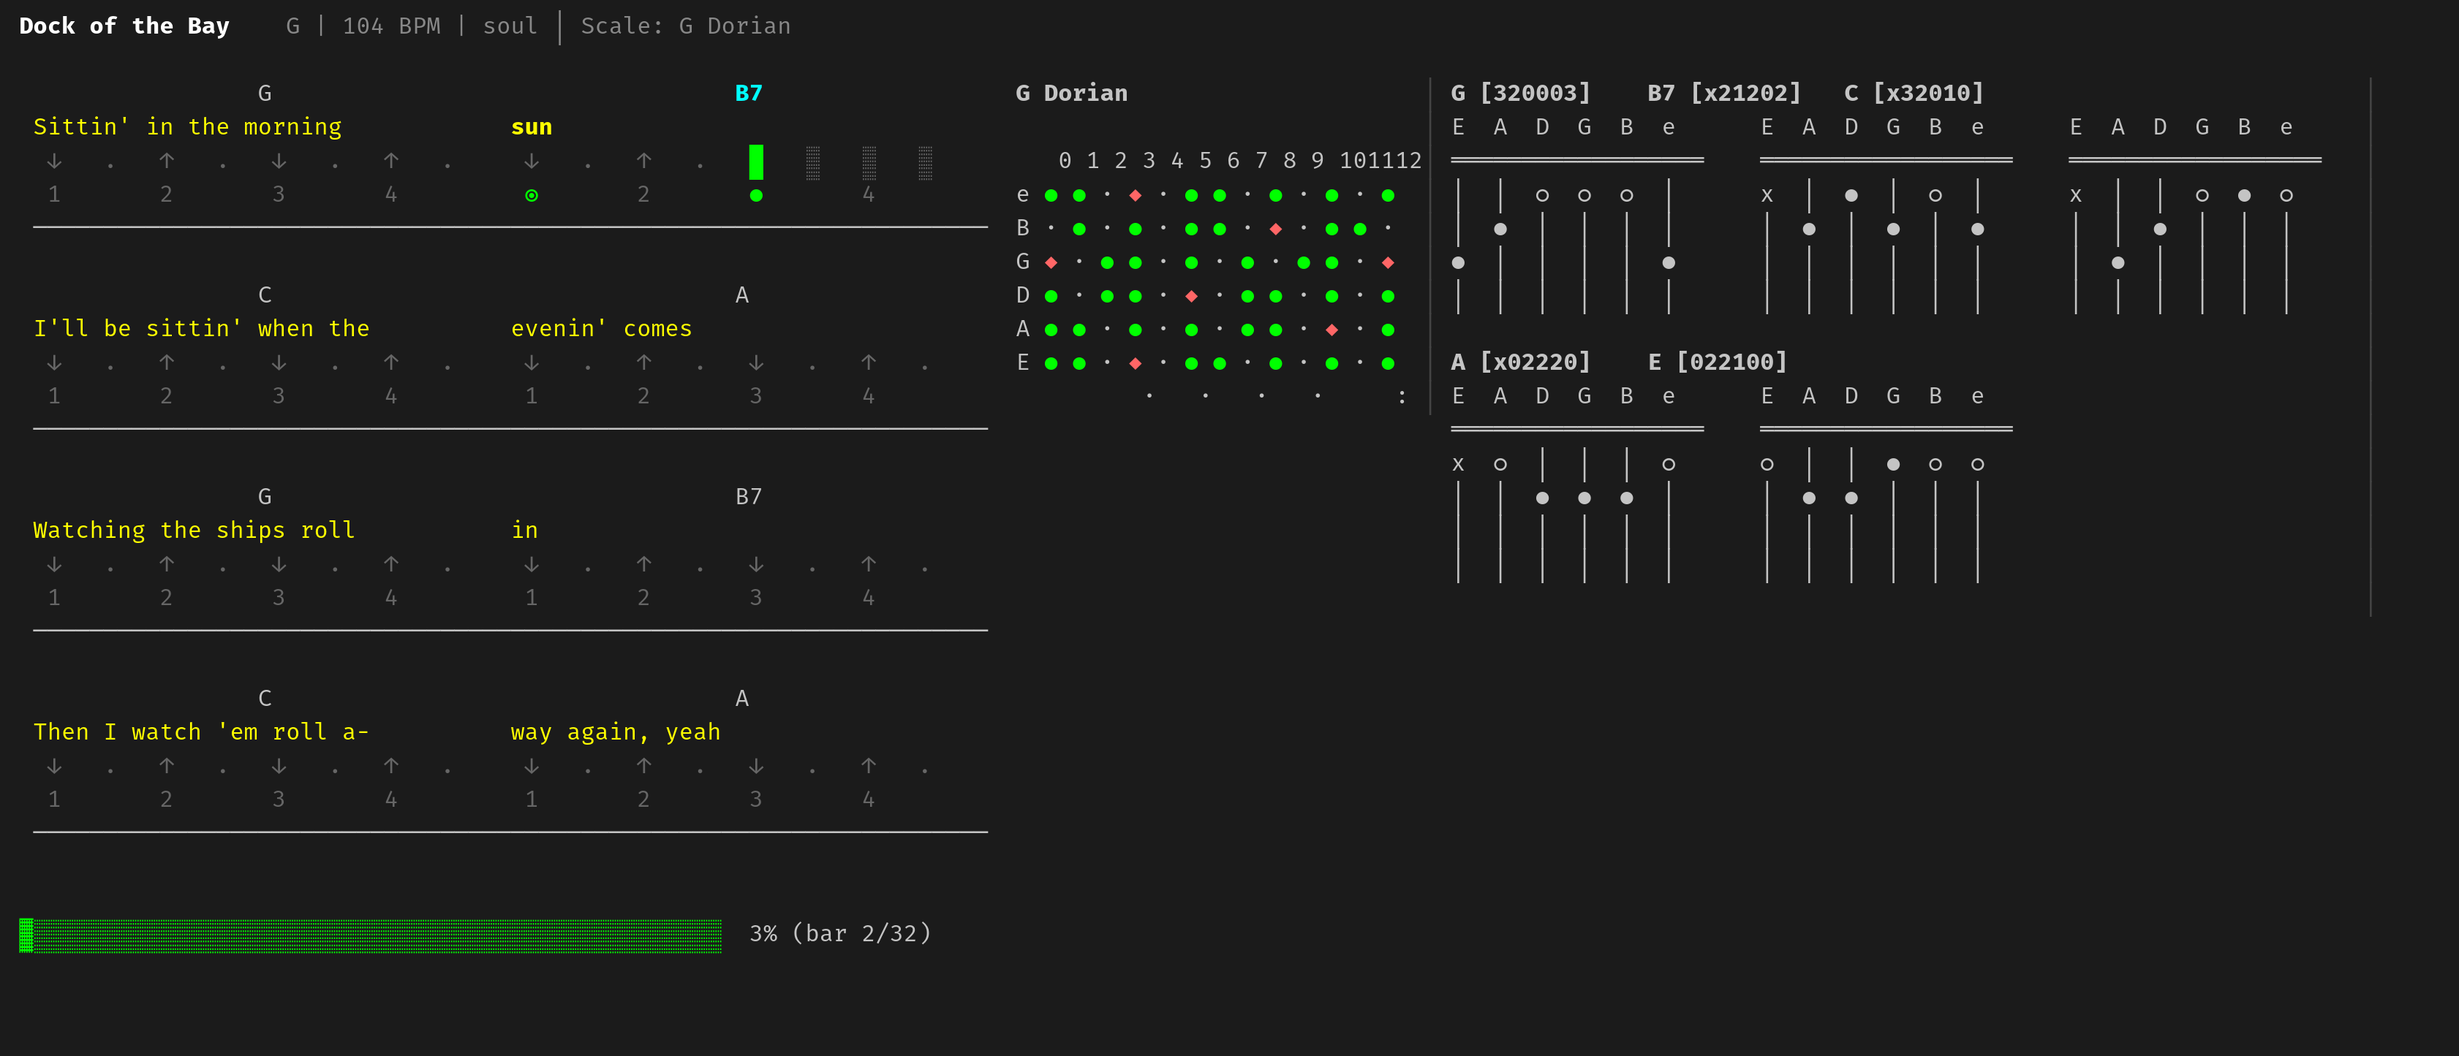
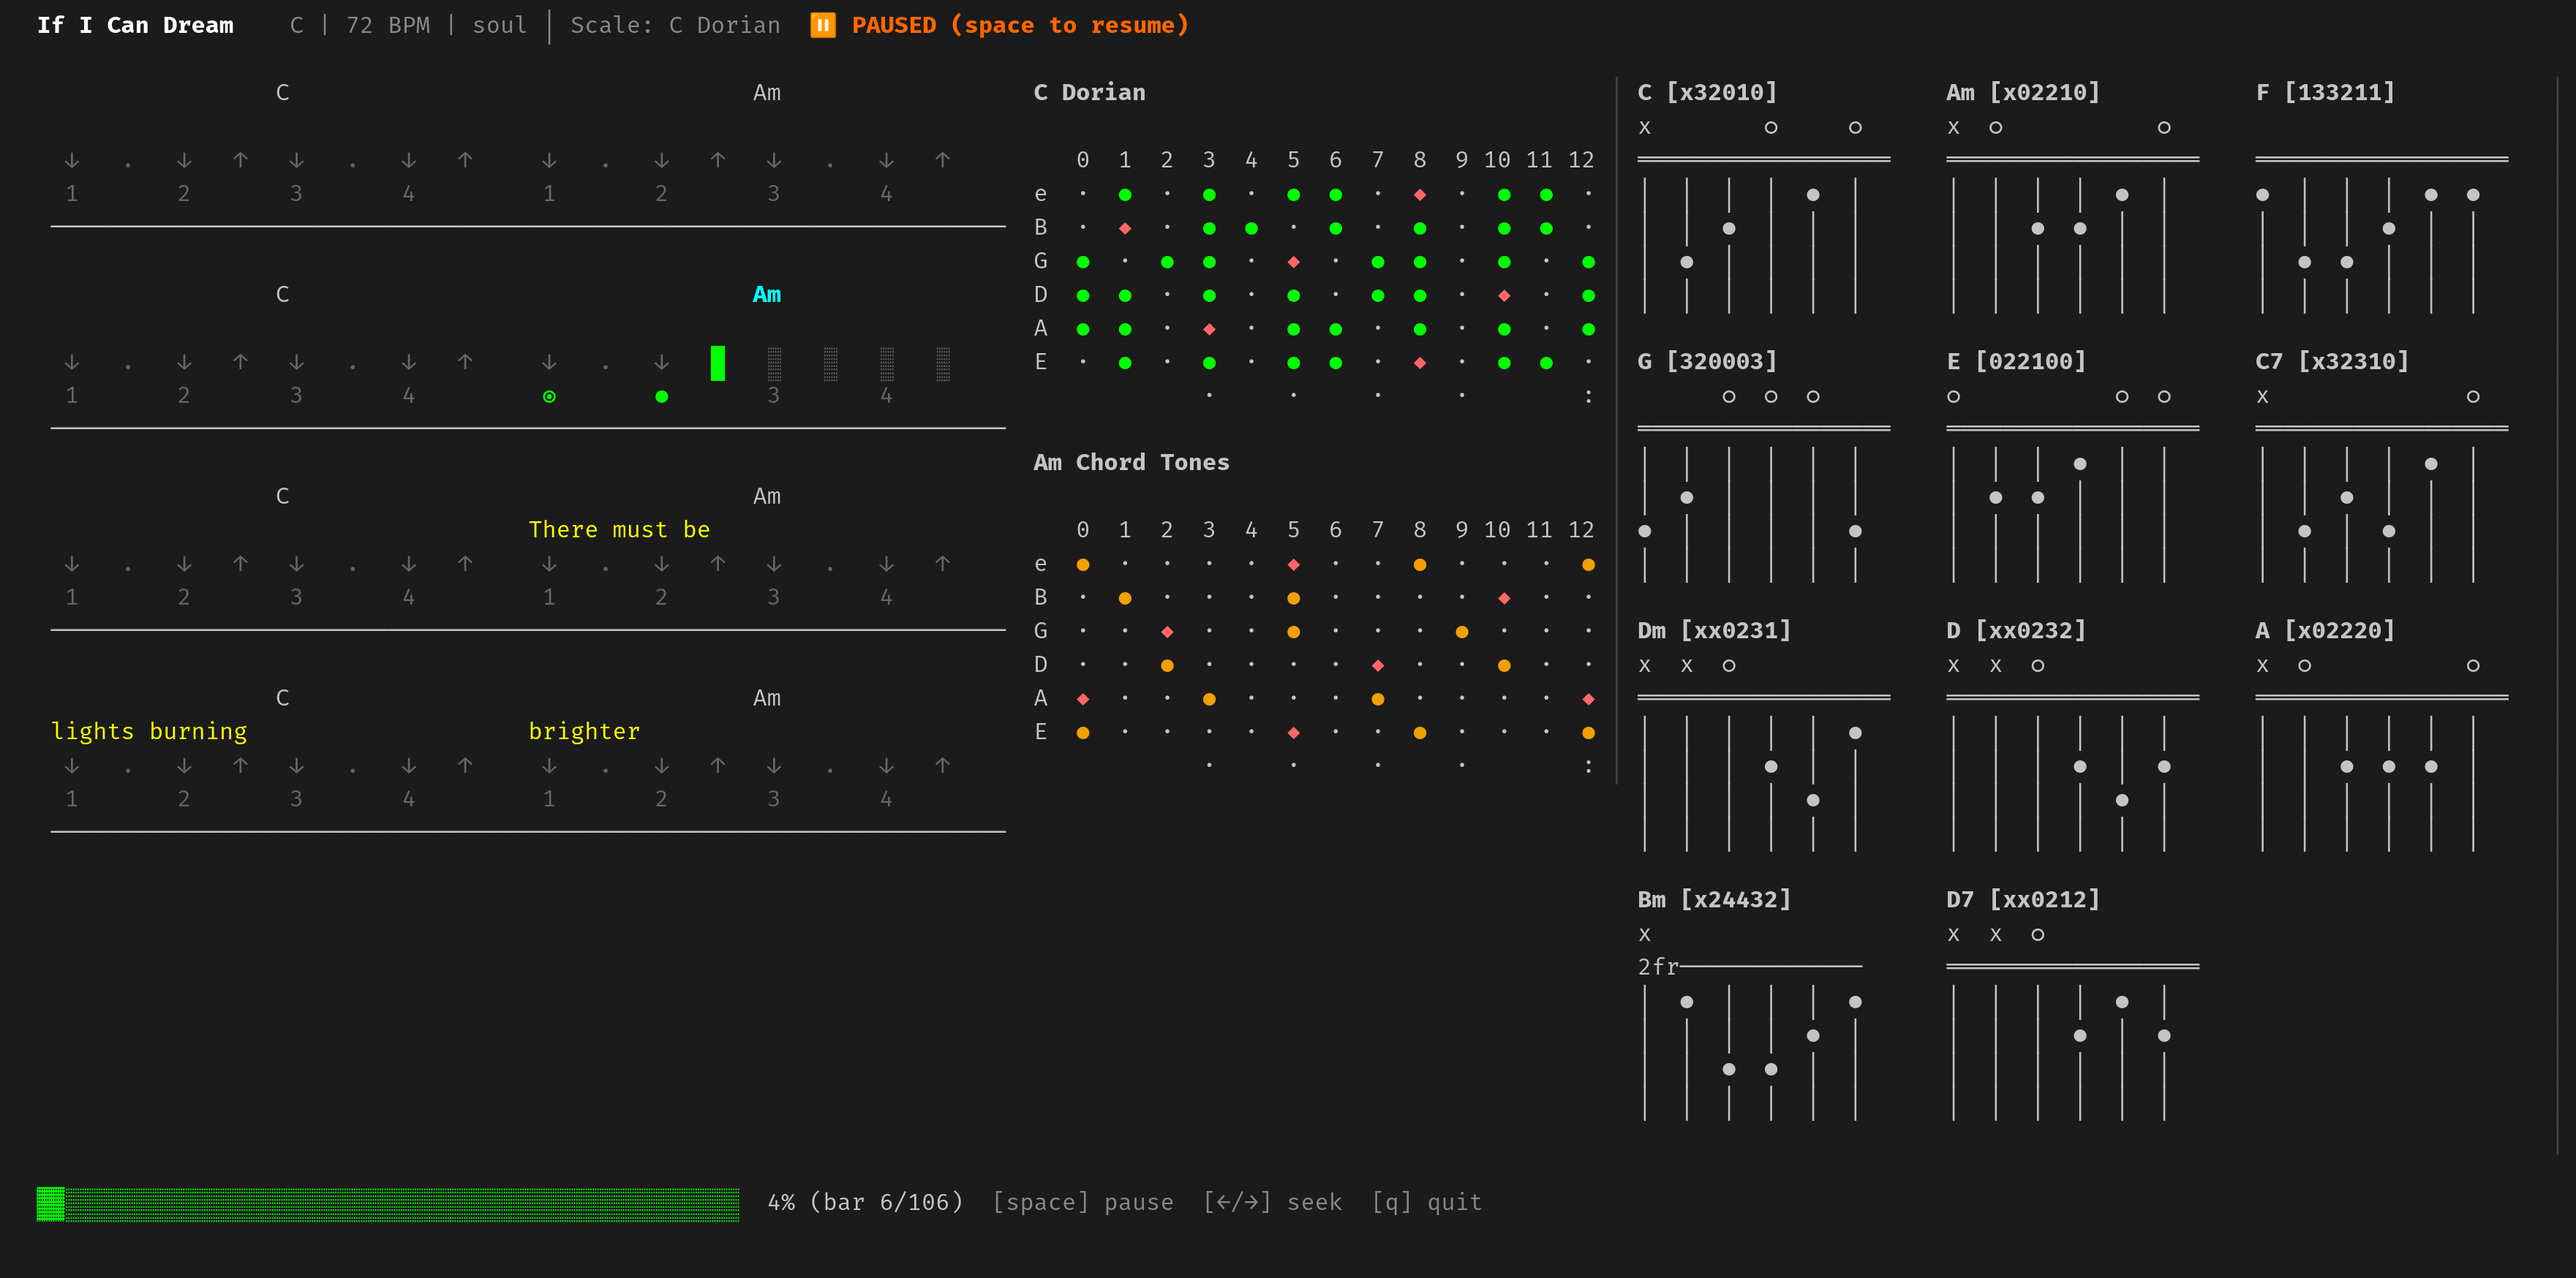
Add chord tones fretboard and fix display alignment issues
New features:
- Chord tones fretboard showing all positions for current chord
- Root notes shown as ◆ (red), other chord tones as ● (orange)
- Updates in real-time as chords change (including mid-bar)

Display fixes:
- Fixed fret number alignment (double digits now properly spaced)
- Fixed chord diagram alignment (ANSI codes no longer affect width)
- Open/muted string indicators now appear above the nut line
- 16th note styles now properly sync strum cursor with beat

🤖 Generated with [Claude Code](https://claude.com/claude-code)

diff --git a/display/tui.go b/display/tui.go
@@ -512,7 +512,7 @@ func (m *TUIModel) renderBeatNumbers16th(isCurrent bool) string {
 	return " " + strings.Join(result, " ")
 }
 
-// renderMiddleColumn renders the scale fretboard
+// renderMiddleColumn renders the scale fretboard and chord tones fretboard
 func (m *TUIModel) renderMiddleColumn() string {
 	if m.fretboard == nil || m.currentScale == nil {
 		return ""
@@ -524,14 +524,10 @@ func (m *TUIModel) renderMiddleColumn() string {
 	lines = append(lines, lipgloss.NewStyle().Bold(true).Render(" "+m.currentScale.Name))
 	lines = append(lines, "")
 
-	// Fret numbers
-	fretLine := "    "
+	// Fret numbers (use 3-char columns for proper alignment with double digits)
+	fretLine := "   "
 	for fret := 0; fret <= 12; fret++ {
-		if fret < 10 {
-			fretLine += fmt.Sprintf("%d ", fret)
-		} else {
-			fretLine += fmt.Sprintf("%d", fret)
-		}
+		fretLine += fmt.Sprintf("%2d ", fret)
 	}
 	lines = append(lines, fretLine)
 
@@ -545,30 +541,137 @@ func (m *TUIModel) renderMiddleColumn() string {
 
 		for fret := 0; fret <= 12; fret++ {
 			if roots[stringIdx][fret] {
-				line += lipgloss.NewStyle().Foreground(rootColor).Render("◆ ")
+				line += lipgloss.NewStyle().Foreground(rootColor).Render(" ◆ ")
 			} else if positions[stringIdx][fret] {
-				line += lipgloss.NewStyle().Foreground(accentColor).Render("● ")
+				line += lipgloss.NewStyle().Foreground(accentColor).Render(" ● ")
 			} else {
-				line += "· "
+				line += " · "
 			}
 		}
 		lines = append(lines, line)
 	}
 
 	// Fret markers
-	markerLine := "    "
+	markerLine := "   "
 	for fret := 0; fret <= 12; fret++ {
 		if fret == 3 || fret == 5 || fret == 7 || fret == 9 {
-			markerLine += "· "
+			markerLine += " · "
 		} else if fret == 12 {
-			markerLine += ": "
+			markerLine += " : "
 		} else {
-			markerLine += "  "
+			markerLine += "   "
 		}
 	}
 	lines = append(lines, markerLine)
 
+	// Add chord tones fretboard
+	chordLines := m.renderChordTonesFretboard()
+	if len(chordLines) > 0 {
+		lines = append(lines, "")
+		lines = append(lines, chordLines...)
+	}
+
 	return strings.Join(lines, "\n")
+}
+
+// renderChordTonesFretboard renders a fretboard showing all positions for current chord tones
+func (m *TUIModel) renderChordTonesFretboard() []string {
+	// Get current chord
+	currentChord := m.getCurrentChordSymbol()
+	if currentChord == "" {
+		return nil
+	}
+
+	var lines []string
+
+	// Chord name header
+	lines = append(lines, lipgloss.NewStyle().Bold(true).Render(" "+currentChord+" Chord Tones"))
+	lines = append(lines, "")
+
+	// Get chord tones (returns slice of MIDI note offsets 0-11)
+	chordTones := theory.GetChordTones(currentChord)
+	if len(chordTones) == 0 {
+		return nil
+	}
+
+	// Create a map for quick lookup
+	toneMap := make(map[int]bool)
+	for _, tone := range chordTones {
+		toneMap[tone] = true
+	}
+
+	// Root note for highlighting
+	rootTone := chordTones[0]
+
+	// Standard tuning: E A D G B E (MIDI notes 40, 45, 50, 55, 59, 64)
+	openStrings := []int{40, 45, 50, 55, 59, 64} // Low E to high E
+
+	// Fret numbers
+	fretLine := "   "
+	for fret := 0; fret <= 12; fret++ {
+		fretLine += fmt.Sprintf("%2d ", fret)
+	}
+	lines = append(lines, fretLine)
+
+	// Strings (high to low for display)
+	stringNames := []string{"e", "B", "G", "D", "A", "E"}
+
+	for idx, name := range stringNames {
+		stringIdx := 5 - idx // Reverse to match display order
+		openNote := openStrings[stringIdx]
+		line := fmt.Sprintf(" %s ", name)
+
+		for fret := 0; fret <= 12; fret++ {
+			noteAtFret := (openNote + fret) % 12
+			if noteAtFret == rootTone {
+				// Root note - highlight in different color
+				line += lipgloss.NewStyle().Foreground(rootColor).Render(" ◆ ")
+			} else if toneMap[noteAtFret] {
+				// Chord tone
+				line += lipgloss.NewStyle().Foreground(lipgloss.Color("214")).Render(" ● ") // Orange for chord tones
+			} else {
+				line += " · "
+			}
+		}
+		lines = append(lines, line)
+	}
+
+	// Fret markers
+	markerLine := "   "
+	for fret := 0; fret <= 12; fret++ {
+		if fret == 3 || fret == 5 || fret == 7 || fret == 9 {
+			markerLine += " · "
+		} else if fret == 12 {
+			markerLine += " : "
+		} else {
+			markerLine += "   "
+		}
+	}
+	lines = append(lines, markerLine)
+
+	return lines
+}
+
+// getCurrentChordSymbol returns the chord symbol for the current beat position
+func (m *TUIModel) getCurrentChordSymbol() string {
+	if m.currentBar >= len(m.bars) || len(m.bars) == 0 {
+		return ""
+	}
+	bar := m.bars[m.currentBar]
+	if len(bar.Chords) == 0 {
+		return ""
+	}
+
+	// Find the chord active at the current beat
+	for i := len(bar.Chords) - 1; i >= 0; i-- {
+		chord := bar.Chords[i]
+		if m.currentBeat >= chord.StartBeat {
+			return chord.Symbol
+		}
+	}
+
+	// Fallback to first chord
+	return bar.Chords[0].Symbol
 }
 
 // renderRightColumn renders the chord charts and picking pattern
@@ -623,10 +726,10 @@ func (m *TUIModel) renderRightColumn() string {
 				if lineIdx < len(diag) {
 					cell = diag[lineIdx]
 				}
-				// Pad to fixed width
-				cellRunes := []rune(cell)
-				if len(cellRunes) < chartWidth {
-					cell = cell + strings.Repeat(" ", chartWidth-len(cellRunes))
+				// Pad to fixed width (use lipgloss.Width to handle ANSI codes)
+				visualWidth := lipgloss.Width(cell)
+				if visualWidth < chartWidth {
+					cell = cell + strings.Repeat(" ", chartWidth-visualWidth)
 				}
 				rowLine += cell
 			}
@@ -643,8 +746,11 @@ func (m *TUIModel) isSixteenthNoteStyle() bool {
 	if m.track.Rhythm == nil {
 		return false
 	}
-	style := m.track.Rhythm.Style
-	return style == "sixteenth" || style == "funk_16th" || style == "funk_muted"
+	switch m.track.Rhythm.Style {
+	case "sixteenth", "funk_16th", "funk_muted", "dust_in_wind", "landslide", "pima", "pima_reverse":
+		return true
+	}
+	return false
 }
 
 // isFingerPickingStyle checks if current style is fingerpicking
@@ -730,15 +836,26 @@ func (m *TUIModel) renderChordDiagram(v ChordVoicing) []string {
 	}
 	lines = append(lines, lipgloss.NewStyle().Bold(true).Render(fmt.Sprintf(" %s [%s]", v.Name, tabStr)))
 
-	// String names
-	lines = append(lines, " E  A  D  G  B  e")
-
 	// Determine fret range
 	startFret := 1
 	if v.BaseFret > 0 {
 		startFret = v.BaseFret
 	}
 	endFret := startFret + 3
+
+	// Open/muted string indicators (above the nut)
+	indicatorLine := " "
+	for str := 0; str < 6; str++ {
+		f := v.Frets[str]
+		if f == -1 {
+			indicatorLine += "x  "
+		} else if f == 0 {
+			indicatorLine += "○  "
+		} else {
+			indicatorLine += "   "
+		}
+	}
+	lines = append(lines, indicatorLine)
 
 	// Nut or fret indicator
 	if startFret == 1 {
@@ -752,11 +869,7 @@ func (m *TUIModel) renderChordDiagram(v ChordVoicing) []string {
 		line := " "
 		for str := 0; str < 6; str++ {
 			f := v.Frets[str]
-			if f == -1 && fret == startFret {
-				line += "x  "
-			} else if f == 0 && fret == startFret {
-				line += "○  "
-			} else if f == fret {
+			if f == fret {
 				line += "●  "
 			} else {
 				line += "│  "

diff --git a/display/chords.go b/display/chords.go
@@ -301,8 +301,19 @@ func (cc *ChordChart) RenderSingleChord(v ChordVoicing) []string {
 	}
 	endFret := startFret + 3
 
-	// String names line
-	lines = append(lines, " E  A  D  G  B  e")
+	// Open/muted string indicators (above the nut)
+	indicatorLine := " "
+	for str := 0; str < 6; str++ {
+		f := v.Frets[str]
+		if f == -1 {
+			indicatorLine += "x  "
+		} else if f == 0 {
+			indicatorLine += "○  "
+		} else {
+			indicatorLine += "   "
+		}
+	}
+	lines = append(lines, indicatorLine)
 
 	// Nut or fret number indicator
 	if startFret == 1 {
@@ -316,25 +327,9 @@ func (cc *ChordChart) RenderSingleChord(v ChordVoicing) []string {
 		line := " "
 		for str := 0; str < 6; str++ {
 			f := v.Frets[str]
-			if f == -1 {
-				// Muted string
-				if fret == startFret {
-					line += "x  "
-				} else {
-					line += "│  "
-				}
-			} else if f == 0 {
-				// Open string
-				if fret == startFret {
-					line += "○  "
-				} else {
-					line += "│  "
-				}
-			} else if f == fret {
-				// Finger position
+			if f == fret {
 				line += "●  "
 			} else {
-				// Empty fret
 				line += "│  "
 			}
 		}

diff --git a/player/realtime.go b/player/realtime.go
@@ -313,8 +313,14 @@ func (p *RealtimePlayer) GetPlaybackState() (bar int, beat int, strum int, pause
 	bar = int(currentTick / p.playbackData.TicksPerBar)
 	beat = int((currentTick % p.playbackData.TicksPerBar) / ticksPerBeat)
 
-	// Calculate strum position (8 strums per bar for 8th notes, 16 for 16th)
-	strumsPerBar := 8
+	// Calculate strum position based on rhythm style
+	strumsPerBar := 8 // Default for 8th notes
+	if p.track != nil && p.track.Rhythm != nil {
+		switch p.track.Rhythm.Style {
+		case "sixteenth", "funk_16th", "funk_muted", "dust_in_wind", "landslide", "pima", "pima_reverse":
+			strumsPerBar = 16
+		}
+	}
 	ticksPerStrum := p.playbackData.TicksPerBar / uint32(strumsPerBar)
 	strum = int((currentTick % p.playbackData.TicksPerBar) / ticksPerStrum)
 
